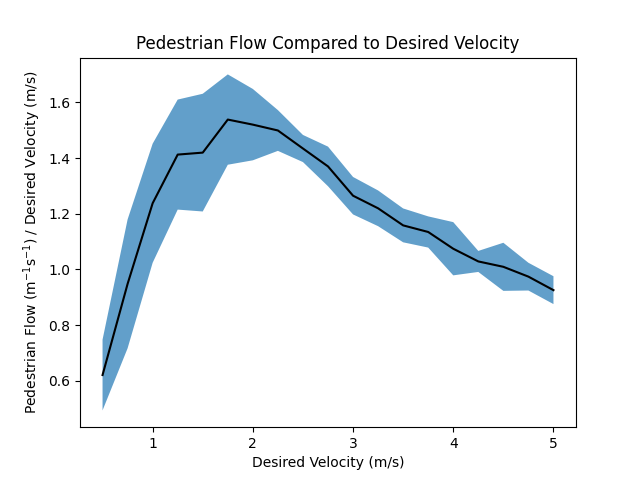
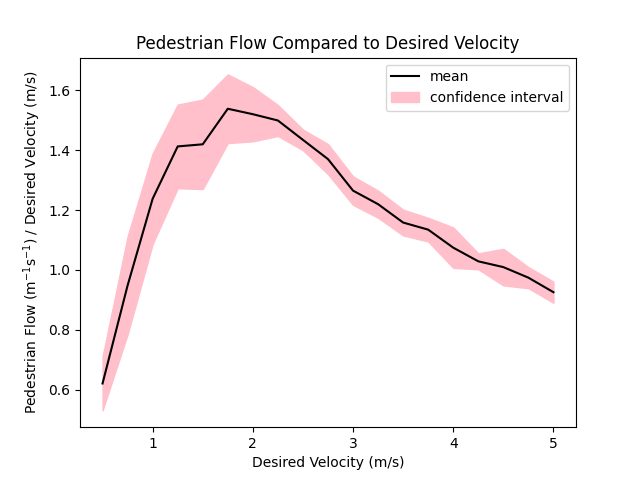
graphs

diff --git a/analysis/validation/plot_validation.py b/analysis/validation/plot_validation.py
@@ -7,21 +7,34 @@ df = pd.DataFrame()
 
 # Read all data files
 for iteration in files:
-    filename = f"data/Validation_DistinctSamples10_MaxSteps100000_Repi1_{iteration}.csv"
+    filename = f"analysis/validation/data/Validation_DistinctSamples10_MaxSteps100000_Repi1_{iteration}.csv"
     df = df.append(pd.read_csv(filename))
-    filename = f"data/Validation_DistinctSamples9_MaxSteps100000_Repi1_{iteration}.csv"
+    filename = f"analysis/validation/data/Validation_DistinctSamples9_MaxSteps100000_Repi1_{iteration}.csv"
     df = df.append(pd.read_csv(filename))
-    filename = f"data/Validation_DistinctSamples19_MaxSteps100000_Repi1_{iteration}.csv"
+    filename = f"analysis/validation/data/Validation_DistinctSamples19_MaxSteps100000_Repi1_{iteration}.csv"
     df = df.append(pd.read_csv(filename))
 
 x = df.groupby("init_desired_speed").mean().reset_index()["init_desired_speed"]
 y = df.groupby("init_desired_speed").mean()["Flow / Desired Velocity"]
-err = (1.96 * df.groupby("init_desired_speed")["Flow / Desired Velocity"].std()) / np.sqrt(len(files))
+err = (1.96 * df.groupby("init_desired_speed")["Flow / Desired Velocity"].std()) / np.sqrt(10)
 
-plt.plot(x, y, c='k')
-plt.fill_between(x, y - err, y + err, alpha=0.7)
+plt.plot(x, y, color='k', label="mean")
+plt.fill_between(x, y - err, y + err, color='pink', label="confidence interval")
 plt.xlabel("Desired Velocity (m/s)")
 plt.ylabel(r"Pedestrian Flow (m$^{-1}$s$^{-1}$) / Desired Velocity (m/s)")
 plt.title("Pedestrian Flow Compared to Desired Velocity")
-plt.savefig("validation_all.png")
+plt.legend()
+plt.savefig("analysis/validation/images/validation_all.png")
+plt.show()
+
+y = df.groupby("init_desired_speed").mean()["Evacuation time"]
+err = (1.96 * df.groupby("init_desired_speed")["Evacuation time"].std()) / np.sqrt(10)
+
+plt.plot(x, y, color='k', label="mean")
+plt.fill_between(x, y - err, y + err, color='pink', label="confidence interval")
+plt.xlabel("Desired Velocity (m/s)")
+plt.ylabel("Evacuation Time (s)")
+plt.title("Evacuation Time Compared to Desired Velocity")
+plt.legend()
+plt.savefig("analysis/validation/images/validation_exit_time.png")
 plt.show()
